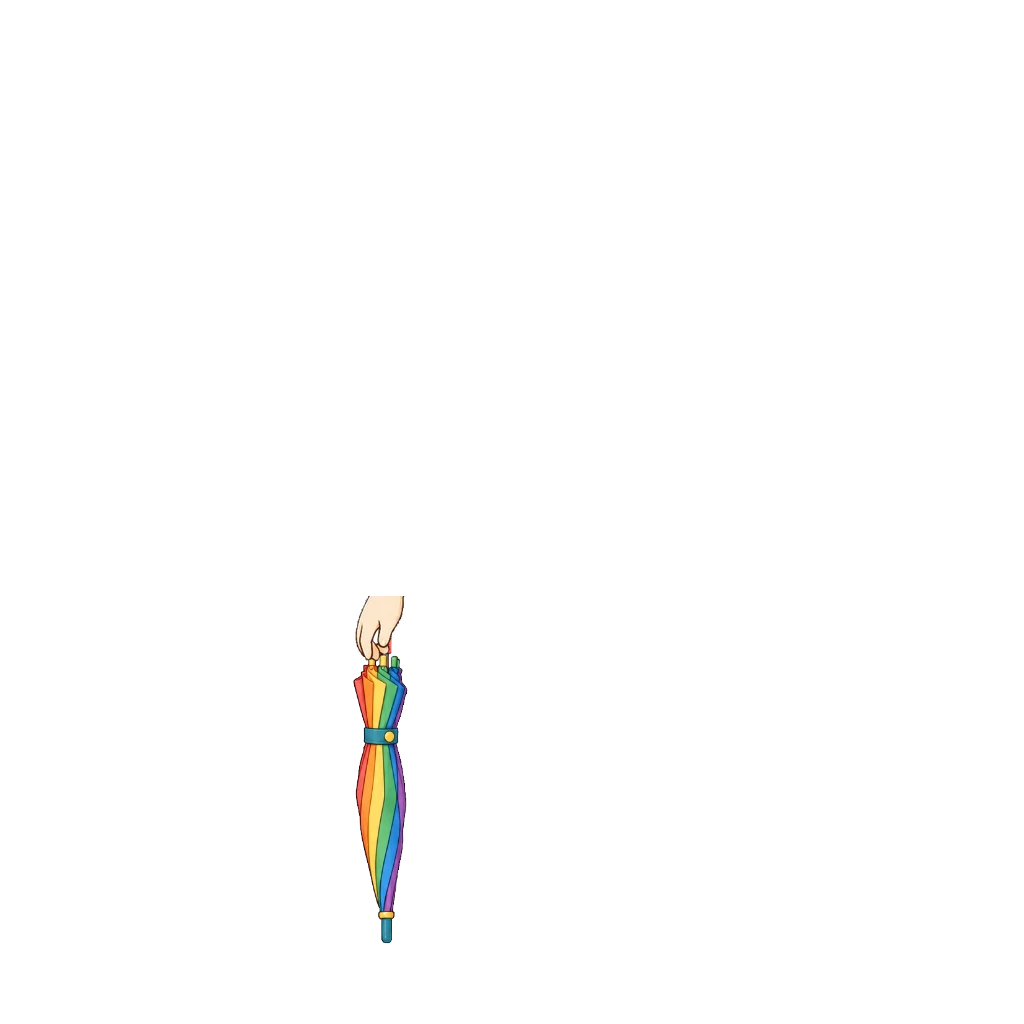
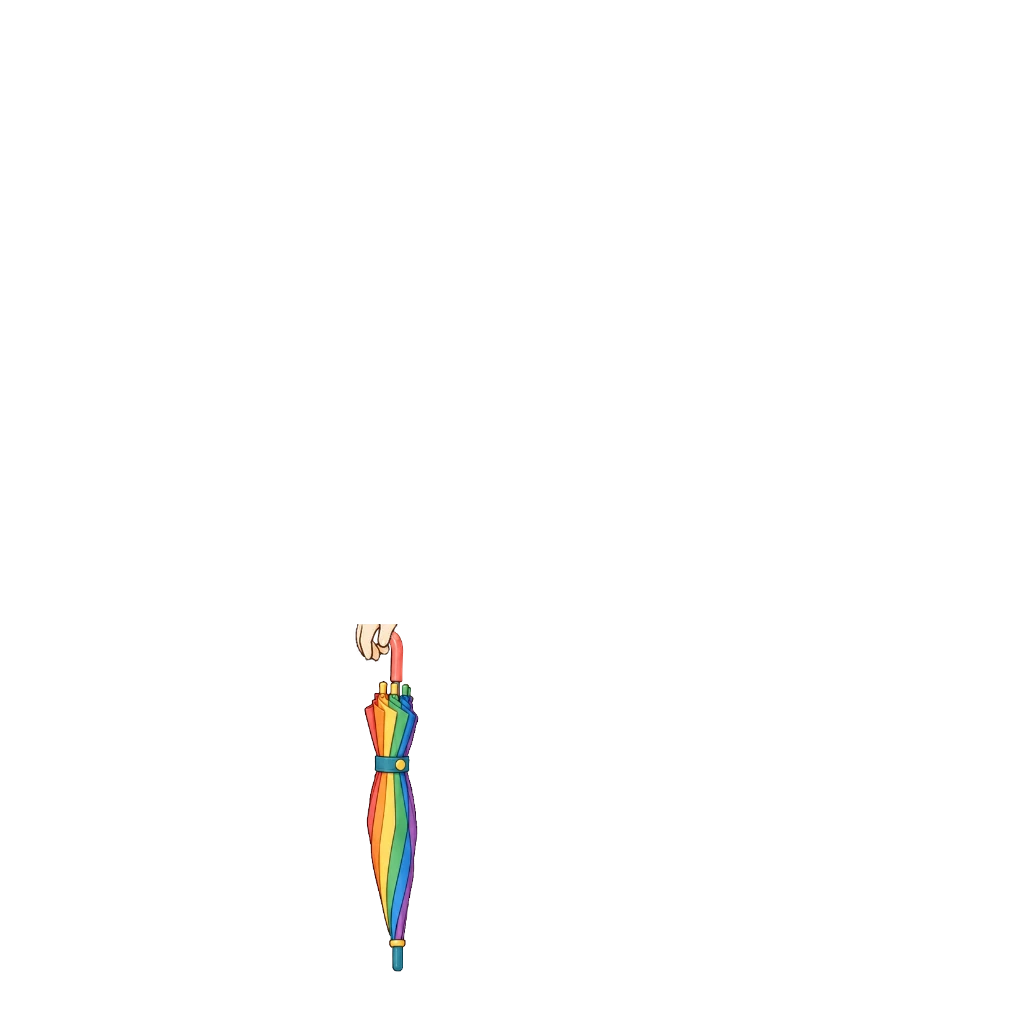
무지개 우산: 손잡이가 손에 걸린 위치로 (#995)
* 무지개 우산: 손잡이가 손에 걸린 위치로

사용자 배치대로 우산을 오른쪽·아래로 옮겨 손잡이 고리가 손가락에 걸리게 하고, 손 안으로 들어간 고리 끝은 지웠다.

Claude-Session: https://claude.ai/code/session_018maNuYqDfFyRSe9uKpZhPR

* 무지개 우산 그림 버전 올림·기록

Claude-Session: https://claude.ai/code/session_018maNuYqDfFyRSe9uKpZhPR

---------

Changed region(s): [[0.3438, 0.5625, 0.4062, 0.9688]]

diff --git a/src/data/avatarEquipment.js b/src/data/avatarEquipment.js
@@ -483,8 +483,9 @@ export const AVATAR_CATALOG = [
   { id: "hand_board_boy", slot: "hand",  label: "번개 보드",   emoji: "🛹", price:DECOR_PRICE.rare, rarity: "rare", theme: "common", forGender: "boy", z: 12, img: "assets/avatar/hand/lightning-board-boy.webp?v=2", thumb: "assets/avatar/thumb/hand_board_boy.webp?v=2" },
   /* 무지개 우산 [2026-10-11] — 여아. 접은 무지개 우산(분홍 손잡이·청록 끈), 사용자 원화 88×555. 노란 우비룩과 짝.
      사용자 참고 그림(얼굴 매칭 0.951)대로 왼손(화면 기준)에 쥔다 — 배율 0.62(참고 그림 매칭과 같음)·원점 (353,600).
-     아바타 팔은 참고 그림처럼 굽지 않고 내려와 있어서, 손잡이 고리를 손 안에 넣고 겹치는 손을 우산 위에 다시 그렸다. 옷 위 z 48. 상자 (353,596,408,944). */
-  { id: "hand_umbrella_girl", slot: "hand", label: "무지개 우산", emoji: "🌂", price:DECOR_PRICE.rare, rarity: "rare", theme: "common", forGender: "girl", z: 48, img: "assets/avatar/hand/rainbow-umbrella-girl.webp", thumb: "assets/avatar/thumb/hand_umbrella_girl.webp" },
+     아바타 팔은 참고 그림처럼 굽지 않고 내려와 있어서, 손잡이 고리를 손 안에 넣고 겹치는 손을 우산 위에 다시 그렸다. 옷 위 z 48. 상자 (353,596,408,944).
+     [2026-10-11] 사용자 배치대로 — 손잡이 고리가 손가락에 걸리게 오른쪽·아래로(원점 (364,628)), 손 안으로 들어간 고리 끝은 지움(?v=2). */
+  { id: "hand_umbrella_girl", slot: "hand", label: "무지개 우산", emoji: "🌂", price:DECOR_PRICE.rare, rarity: "rare", theme: "common", forGender: "girl", z: 48, img: "assets/avatar/hand/rainbow-umbrella-girl.webp?v=2", thumb: "assets/avatar/thumb/hand_umbrella_girl.webp" },
   /* 바다 산소통 [2026-10-05] — 남아. 산소통(사용자 원화 196×433)은 등 뒤 맨 뒤(z 12), 어깨끈 두 줄(283×172)은 맨 앞(zFront 48).
      사용자 배치 참고 그림을 얼굴 매칭(0.847, 물안경이 눈을 가려 코~입으로)으로 아바타 좌표에 올려 위치를 땄다.
      산소통 배율 0.524·원점 (599,361) (참고 그림 쪽이 조금 홀쭉해서 높이·오른쪽 끝 기준), 끈 매칭 0.967 배율 0.700×0.658·원점 (420,431).

diff --git a/art-src/README.md b/art-src/README.md
@@ -644,4 +644,4 @@ bbox로 여백만 잘라내고 배포본은 높이 480px로 축소했다(전부 
 | cookie-bag-girl-src.webp | **쿠키 가방 원화 여아 (사용자 원화 2026-10-11)** — 쿠키 모양 손가방·흰 리본·분홍 손잡이, 핑크 파티시에와 짝. 참고 그림(얼굴 매칭 0.919)대로 왼손(화면 기준)에 — 배율 0.765·원점 (324,636), 옷 위 z 48, 겹치는 손(y630~)을 위에 다시 그림. 손잡이 위쪽을 손 폭(356~398)에 맞게 가로로 좁힘(?v=2). → 모양은 원래대로 되돌리고 위치만 옮겨 손 양옆 선에 맞춤(원점 (325,643), ?v=3). → 사용자가 고른 후보 자리 원점 (320,632)(?v=4). 탑재 상자 (324,630,425,764). 상점 그림은 원화를 세로 160px 로 | avatar/back/cookie-bag-girl.webp · thumb/back_cookie_girl.webp |
 | (원본 같음) strawberry-crossbag-*-src.webp | **딸기 크로스백 옷별 왼쪽 7 (2026-10-11)** — 들꽃 탐험가·파랑 우편부·핑크 파티시에는 가방만 왼쪽으로 7(원점 (559,538), 끈 아래끝 (569,560)). 탐험가·우편부는 그 옷 팔 끝 기준 앞뒤 나눔, 파티시에는 가방 통째로 옷 위+팔 맨 위 | avatar/back/strawberry-crossbag-{,strap-}{vest,delivery}-girl.webp · bakery ?v=5 |
 | sky-bag-girl-src.webp | **하늘 가방 원화 여아 (사용자 원화 2026-10-11)** — 크림색 편지 봉투 가방·분홍 하트·하늘색 끈 한 장, 파랑 우편부와 짝. 참고 그림(얼굴 매칭 0.917)대로 끈 윗끝 (442,384)·하트 (594,573) 두 점 맞춤 배율 0.730·-0.3°, z 38. 탑재 상자 (436,382,630,612). 들꽃 탐험가만 가방 왼쪽 7(크기 그대로 끈 윗끝 중심 회전, 하트 (587,578), sky-bag-vest-girl.webp). 상점 그림은 원화를 세로 160px 로 | avatar/back/sky-bag-girl.webp · thumb/back_sky_girl.webp |
-| rainbow-umbrella-girl-src.webp | **무지개 우산 원화 여아 (사용자 원화 2026-10-11)** — 접은 무지개 우산·분홍 손잡이·청록 끈 88×555, 노란 우비룩과 짝. 참고 그림(얼굴 매칭 0.951)대로 왼손(화면 기준)에 — 배율 0.62·원점 (353,600), 손잡이 고리는 손 안, 겹치는 손을 위에 다시 그림, z 48. 탑재 상자 (353,596,408,944). 상점 그림은 원화를 세로 160px 로 | avatar/hand/rainbow-umbrella-girl.webp · thumb/hand_umbrella_girl.webp |
+| rainbow-umbrella-girl-src.webp | **무지개 우산 원화 여아 (사용자 원화 2026-10-11)** — 접은 무지개 우산·분홍 손잡이·청록 끈 88×555, 노란 우비룩과 짝. 참고 그림(얼굴 매칭 0.951)대로 왼손(화면 기준)에 — 배율 0.62·원점 (353,600), 손잡이 고리는 손 안, 겹치는 손을 위에 다시 그림, z 48. 이후 사용자 배치대로 고리가 손가락에 걸리게 원점 (364,628), 고리 끝은 지움(?v=2). 탑재 상자 (353,596,408,944). 상점 그림은 원화를 세로 160px 로 | avatar/hand/rainbow-umbrella-girl.webp · thumb/hand_umbrella_girl.webp |
